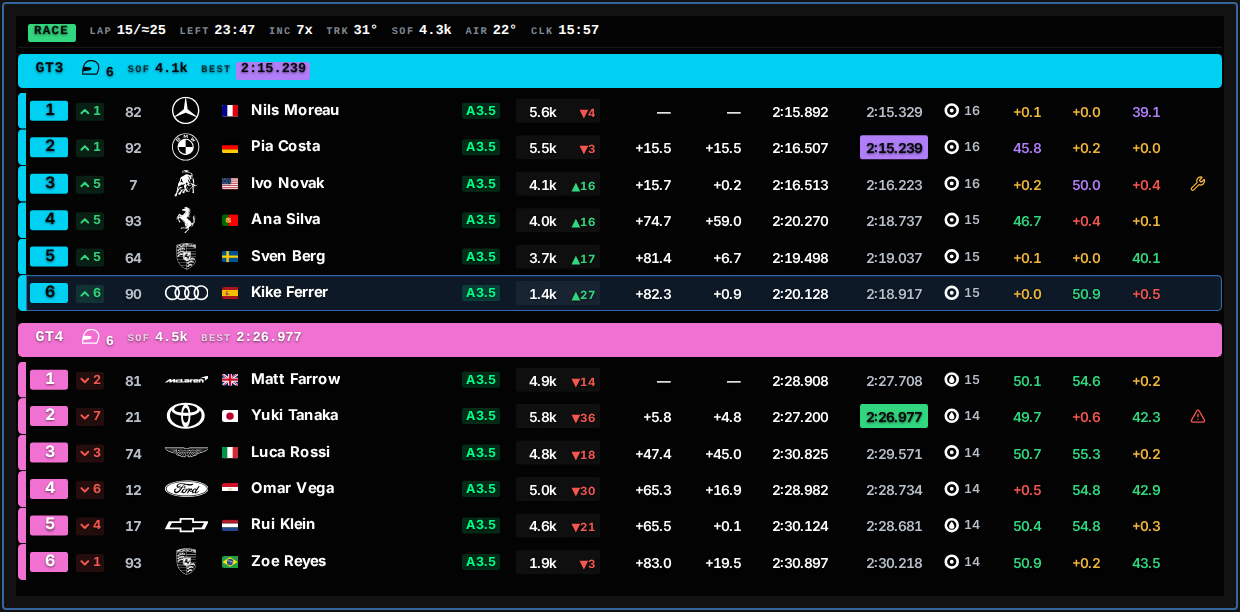
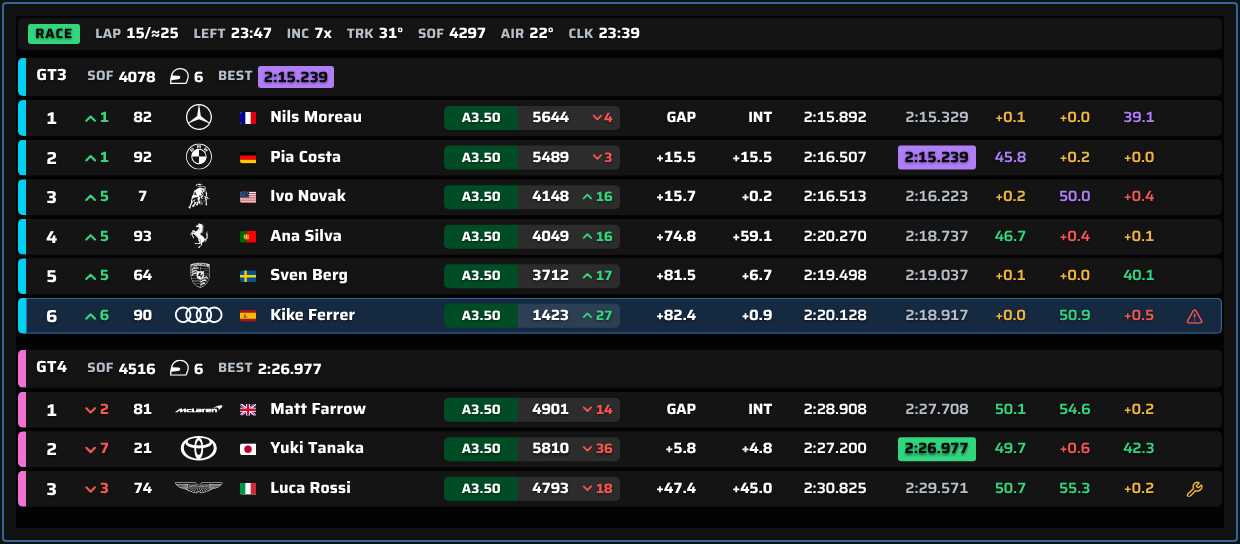
docs(site): re-shoot the timing captures for the new look — v1.15.0 (#81)
* docs(site): re-shoot the timing captures for the strip-per-row look

standings-compact, standings and relative are re-shot from the live app on
the mock feed, so the page shows what 1.15 ships: rows as strips, the
licence/iRating pill, Saira, and the tyre badges on the Relative.

Copy and alt text change with them: Standings is 14 columns with no tyre,
the hero and Standings alt describe the new rows, the Relative copy, band and
alt describe the D/W tyre badges (three GT4 cars on wets in this capture),
the Standings legend gains the change-of-place arrows and the leader's GAP
and drops its TYRE row, and the image dimensions match the new files.

Frame heights were re-measured (capture.mjs): Standings' are the shortest
at which the table is still width-limited, found by stepping the viewport
down until the scale moves; Relative's ends just past its tenth row.
Manager, dashboard and fuel show screens this change did not touch and are
left alone.

Claude-Session: https://claude.ai/code/session_01WujxYQK4mTd7rqUGEcSDPn

* chore(release): v1.15.0

Same six files, same script (`node scripts/release.mjs bump minor`), routed
through this PR as the recent releases were, since release.yml's direct push
to main is rejected by the `contribution` ruleset. The 1.15.0 section's
headings are put in Keep a Changelog order (Added, Changed, Fixed), since
`release.mjs notes` turns it into the GitHub release body.

Claude-Session: https://claude.ai/code/session_01WujxYQK4mTd7rqUGEcSDPn
[…]

diff --git a/site/index.html b/site/index.html
@@ -326,15 +326,16 @@
             <img
               src="assets/standings-compact.png"
               width="1240"
-              height="612"
+              height="544"
               alt="The standings overlay in a narrow window, drawn small enough that
                    every column still fits: a session strip reading lap, time left,
                    incidents, track and air temperature, strength of field and the
-                   clock, then a GT3 class band with car count, SoF and fastest lap
-                   over six driver rows, and the full GT4 group below it — each row
+                   clock, then a GT3 class header with strength of field, car count
+                   and fastest lap over six driver rows, and the top three of the GT4
+                   group below it. Each row is a dark strip edged in its class colour,
                    carrying position, position change, car number, car brand, flag,
-                   driver, licence, iRating, gap, interval, last lap, best lap, tyre
-                   and three sector columns."
+                   driver, a combined licence and iRating pill, gap, interval, last
+                   lap, best lap and three sector columns."
             />
           </figure>
         </section>
@@ -345,38 +346,42 @@
         <section id="standings" class="row row--wide">
           <div class="band">
             <span class="band__chip">Standings</span>
-            <span class="band__field"><span class="band__k">COLUMNS</span><b class="band__v">15</b></span>
+            <span class="band__field"><span class="band__k">COLUMNS</span><b class="band__v">14</b></span>
             <span class="band__field"><span class="band__k">ALWAYS</span><b class="band__v">3</b></span>
             <span class="band__field"><span class="band__k">ROW</span><b class="band__v">32px</b></span>
           </div>
           <div class="row__copy">
-            <h2>The whole field, grouped by class.</h2>
+            <h2>The running order, grouped by class.</h2>
             <p class="row__body">
-              Each class opens with its own band — how many cars are in it, its
-              strength of field, and the lap that leads it. Underneath, the
-              running order with everything you would otherwise be squinting for.
-              Every car is on screen at once: no scroll bar, the table scales to
-              fit the window. Join a practice late and the times set before you
-              arrived are already on the board.
+              Each class opens with its own header — how many cars are in it, its
+              strength of field, and the lap that leads it. Underneath, every car
+              on its own strip with everything you would otherwise be squinting
+              for. Your class shows its leaders and the cars around you, other
+              classes their top runners, and there is no scroll bar: the table
+              scales to fit the window. Join a practice late and the times set
+              before you arrived are already on the board.
             </p>
             <ul class="reads">
               <li>Gap to the class leader, and the interval to the car directly ahead</li>
               <li>Sector times and deltas, graded against your own best and the field's</li>
               <li>iRating with a live projected change, licence class and safety rating</li>
-              <li>Slicks or wets at a glance, and laps on the set; pit and off-track state</li>
+              <li>Who just passed whom: a green or red arrow on every change of place</li>
             </ul>
           </div>
           <figure class="shot">
             <img
               src="assets/standings.png"
               width="2360"
-              height="1024"
+              height="856"
               loading="lazy"
-              alt="The standings overlay showing two class groups, GT3 and GT4. Each
-                   group has a coloured band with car count, strength of field and
-                   fastest lap, followed by rows carrying position, position change,
-                   car number, car brand, flag, driver, licence, iRating, gap,
-                   interval, last lap, best lap, tyre and three sector columns."
+              alt="The standings overlay showing two class groups: all six GT3 cars
+                   and the top three GT4 cars. Each group opens with a header strip
+                   carrying strength of field, car count and fastest lap, followed by
+                   rows — each a dark strip edged in its class colour — carrying
+                   position, position change, car number, car brand, flag, driver, a
+                   combined licence and iRating pill, gap, interval, last lap, best
+                   lap and three sector columns. Each class leader's row reads GAP
+                   and INT where it has no gap to show."
             />
           </figure>
         </section>
@@ -386,6 +391,7 @@
             <span class="band__chip">Relative</span>
             <span class="band__field"><span class="band__k">SORT</span><b class="band__v">track order</b></span>
             <span class="band__field"><span class="band__k">GAP</span><b class="band__v">signed</b></span>
+            <span class="band__field"><span class="band__k">TYRES</span><b class="band__v">D · W</b></span>
           </div>
           <div class="row__copy">
             <h2>Who is actually coming.</h2>
@@ -395,22 +401,27 @@
               signed and live. Cars you are lapping turn blue, every car from
               another class carries its class badge, and the only highlighted row
               is yours. A closing indicator fires when a faster car is catching
-              you, and turns red when that car is from another class.
+              you, and turns red when that car is from another class. And every
+              car shows its tyres — a white D for dries, a blue W for wets — with
+              the laps on the set, so you see who has gone to wets the moment the
+              rain comes.
             </p>
           </div>
           <figure class="shot">
             <img
               src="assets/relative.png"
               width="1120"
-              height="832"
+              height="788"
               loading="lazy"
               alt="The relative overlay in a two-class race: cars ahead and behind
-                   the player sorted by on-track time, each row opening with a GT3 or
-                   GT4 class badge in its class colour. GT3 cars on the player's lap
-                   are written in white; GT4 cars a lap down on the player, both ahead
-                   and behind, are written in blue with a minus-one-lap tag. The
-                   player's own row is the only highlighted one, outlined and set
-                   apart by a gap above and below."
+                   the player sorted by on-track time, each row a dark strip opening
+                   with a GT3 or GT4 class badge in its class colour. GT3 cars on the
+                   player's lap are written in white; GT4 cars a lap down on the
+                   player, both ahead and behind, are written in blue with a
+                   minus-one-lap tag. Every row shows its tyres: a white D in a circle
+                   for dries or a blue W for wets, then the laps on the set — three of
+                   the GT4 cars are on wets. The player's own row is the only
+                   highlighted one, outlined and set apart by a gap above and below."
             />
           </figure>
         </section>
@@ -519,11 +530,14 @@
                 <tr>
                   <th scope="row">POS</th>
                   <td>Position in class, or overall when the field is ungrouped</td>
-                  <td>—</td>
+                  <td>
+                    <span class="sw sw--pb">↑ gained</span> ·
+                    <span class="sw sw--bad">↓ lost</span> for three seconds after a pass
+                  </td>
                 </tr>
                 <tr>
                   <th scope="row">GAP</th>
-                  <td>Seconds behind the class leader, or laps down</td>
+                  <td>Seconds behind the class leader, or laps down — the leader's own row reads GAP</td>
                   <td>—</td>
                 </tr>
                 <tr>
@@ -554,13 +568,8 @@
                 </tr>
                 <tr>
                   <th scope="row">LIC</th>
-                  <td>Licence class and safety rating</td>
+                  <td>Licence class and safety rating, joined to the iRating as one pill</td>
                   <td>iRacing's own licence colour</td>
-                </tr>
-                <tr>
-                  <th scope="row">TYRE</th>
-                  <td>Slicks or wets, and laps on the current set</td>
-                  <td>— shape, not colour: a drop in the hub marks wets</td>
                 </tr>
                 <tr>
                   <th scope="row">S1–S3</th>

diff --git a/CHANGELOG.md b/CHANGELOG.md
@@ -7,6 +7,8 @@ and this project adheres to [Semantic Versioning](https://semver.org/spec/v2.0.0
 
 ## [Unreleased]
 
+## [1.15.0] - 2026-10-10
+
 ### Added
 
 - **See who just passed whom.** When a car changes place on Standings, its
@@ -16,14 +18,6 @@ and this project adheres to [Semantic Versioning](https://semver.org/spec/v2.0.0
   **D** in a circle for dries, a blue **W** for wets, and how many laps are on
   the set. Turn it on or off under Overlay Manager → Relative → Options →
   "Tyre compound" (on by default).
-
-### Fixed
-
-- **Car logos spilling out of the first row when column labels are on.** The
-  row that carries the labels is now tall enough for them and a full row
-  underneath, so logos and the licence pill no longer break out of it. Car
-  logos on Standings are also a touch smaller, so none of them touches the
-  edge of its row.
 
 ### Changed
 
@@ -42,6 +36,14 @@ and this project adheres to [Semantic Versioning](https://semver.org/spec/v2.0.0
   rows, the class headers and the session line.
 - **Tyres moved off Standings.** The tyre column now lives on the Relative
   (see above), which leaves Standings one column narrower.
+
+### Fixed
+
+- **Car logos spilling out of the first row when column labels are on.** The
+  row that carries the labels is now tall enough for them and a full row
+  underneath, so logos and the licence pill no longer break out of it. Car
+  logos on Standings are also a touch smaller, so none of them touches the
+  edge of its row.
 
 ## [1.14.0] - 2026-10-10
 
@@ -466,7 +468,8 @@ and this project adheres to [Semantic Versioning](https://semver.org/spec/v2.0.0
   with a SHA-256 so the download can be verified. It is not code-signed, so
   Windows SmartScreen will warn on first run — see the README.
 
-[Unreleased]: https://github.com/panyu1512/TelemetryLab/compare/v1.14.0...HEAD
+[Unreleased]: https://github.com/panyu1512/TelemetryLab/compare/v1.15.0...HEAD
+[1.15.0]: https://github.com/panyu1512/TelemetryLab/compare/v1.14.0...v1.15.0
 [1.14.0]: https://github.com/panyu1512/TelemetryLab/compare/v1.13.0...v1.14.0
 [1.13.0]: https://github.com/panyu1512/TelemetryLab/compare/v1.12.0...v1.13.0
 [1.12.0]: https://github.com/panyu1512/TelemetryLab/compare/v1.11.0...v1.12.0

diff --git a/design.md b/design.md
@@ -1169,11 +1169,12 @@ band were rewritten with it. The tyre column's move to Relative, and its
   change still dates the screenshots silently until someone runs it. Wiring it
   into a release step would close that.
 
-  **They are dated now.** The strip-per-row restyle and the tyre column's move
-  to Relative landed without a re-shoot, and the page's copy describes what the
-  old captures show — a tyre column on Standings, "shape, not colour" for wets,
-  fifteen columns. Copy and captures have to change together, or the alt text
-  describes a picture the page is not showing.
+  The strip-per-row restyle and the tyre column's move to Relative shipped
+  without one, and the page spent one release describing the old captures — a
+  tyre column on Standings, "shape, not colour" for wets, fifteen columns.
+  Re-shot for 1.15, with the copy and alt text changed in the same commit:
+  the two have to move together, or the alt text describes a picture the page
+  is not showing.
 - **The class band could carry its own projected race distance.** The
   reference this restyle followed prints one per class (`6/≈35.80`): in a timed
   multi-class race a GT4 and an LMP1 cover different distances, and the session

diff --git a/README.md b/README.md
@@ -39,7 +39,7 @@
 <br>
 
 <div align="center">
-  <img src="site/assets/standings-compact.png" alt="The TelemetryLab standings overlay: a session strip, then GT3 and GT4 class groups with the full running order under each" width="800">
+  <img src="site/assets/standings-compact.png" alt="The TelemetryLab standings overlay: a session strip, then GT3 and GT4 class groups, each car on its own strip edged in its class colour" width="800">
 </div>
 
 <br>
